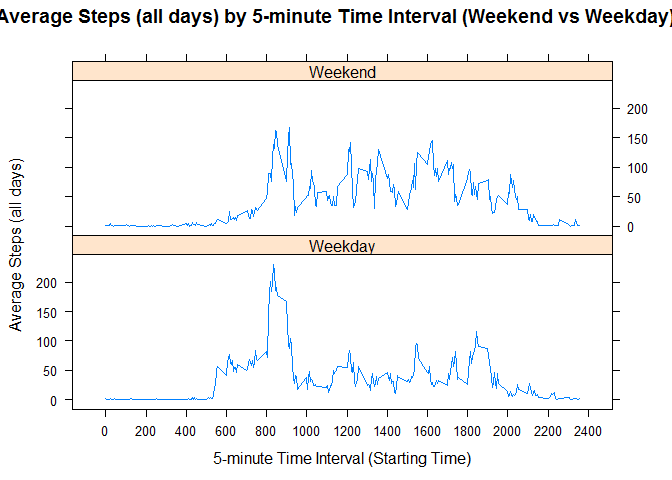
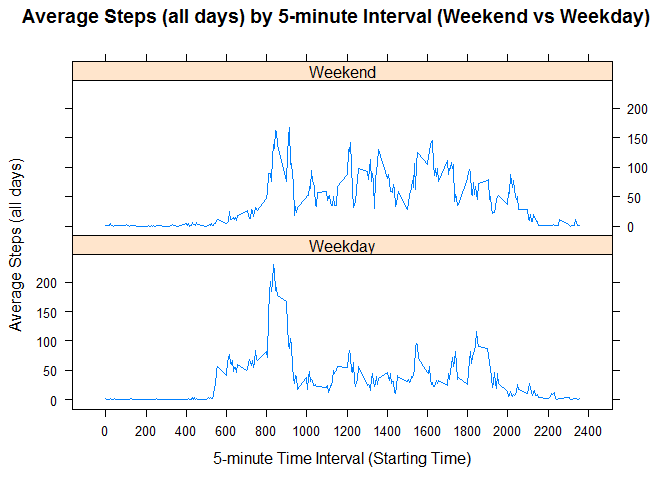
let it be so 2

Changed region(s): [[0.0, 0.0, 1.0, 0.0625]]

diff --git a/PA1_template.html b/PA1_template.html
@@ -250,8 +250,8 @@ xyplot(steps~interval|wf,data2D,layout=c(1,2),type=&quot;l&quot;,
        scales=list(y=list(tick.number = 7),x=list(tick.number = 13)),
        ylab=&quot;Average Steps (all days)&quot;,
        xlab=&quot;5-minute Time Interval (Starting Time)&quot;,
-       main=&quot;Average Steps (all days) by 5-minute Time Interval (Weekend vs Weekday)&quot;)</code></pre>
[1 lines of base64/hex data omitted]
+       main=&quot;Average Steps (all days) by 5-minute Interval (Weekend vs Weekday)&quot;)</code></pre>
[1 lines of base64/hex data omitted]
 </div>
 
 

diff --git a/PA1_template.md b/PA1_template.md
@@ -186,7 +186,7 @@ xyplot(steps~interval|wf,data2D,layout=c(1,2),type="l",
        scales=list(y=list(tick.number = 7),x=list(tick.number = 13)),
        ylab="Average Steps (all days)",
        xlab="5-minute Time Interval (Starting Time)",
-       main="Average Steps (all days) by 5-minute Time Interval (Weekend vs Weekday)")
+       main="Average Steps (all days) by 5-minute Interval (Weekend vs Weekday)")
 ```
 
 ![](PA1_template_files/figure-html/unnamed-chunk-11-1.png)<!-- -->
